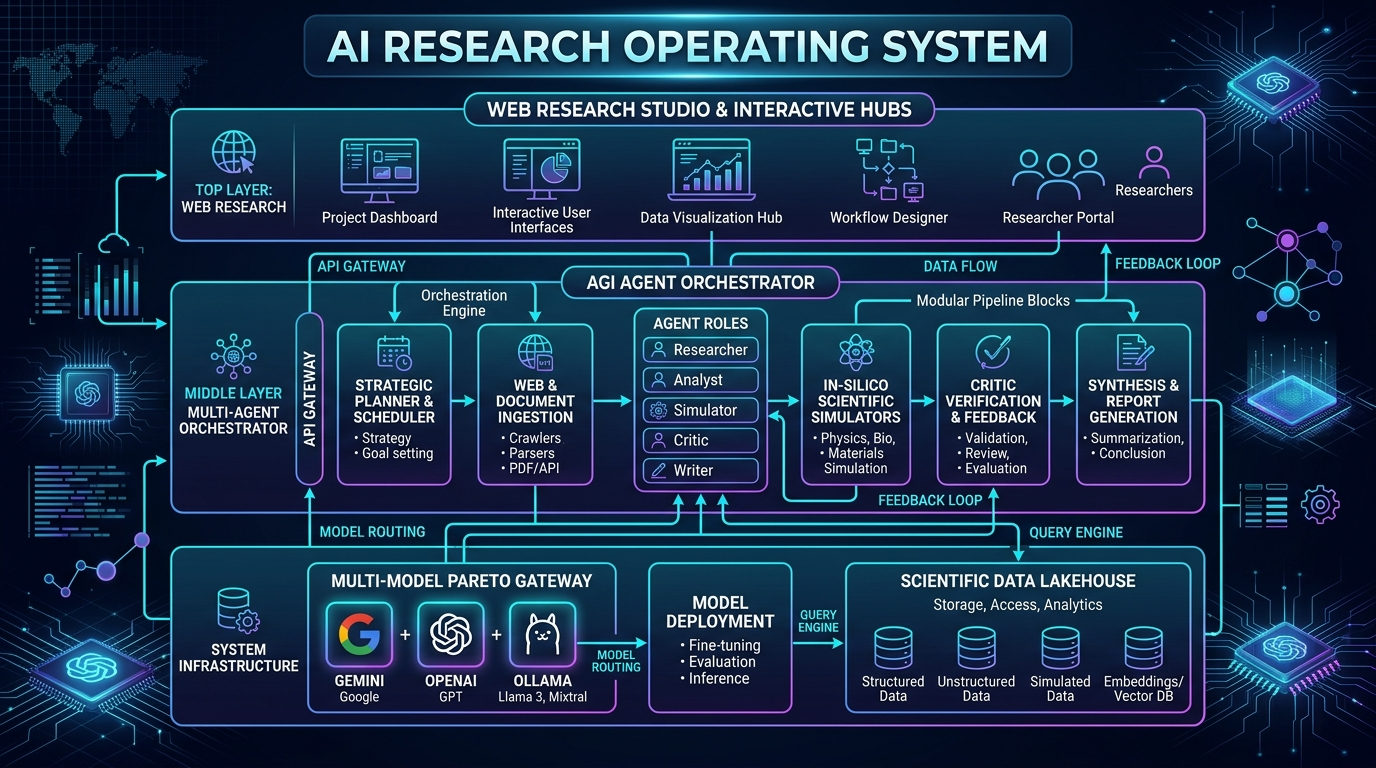
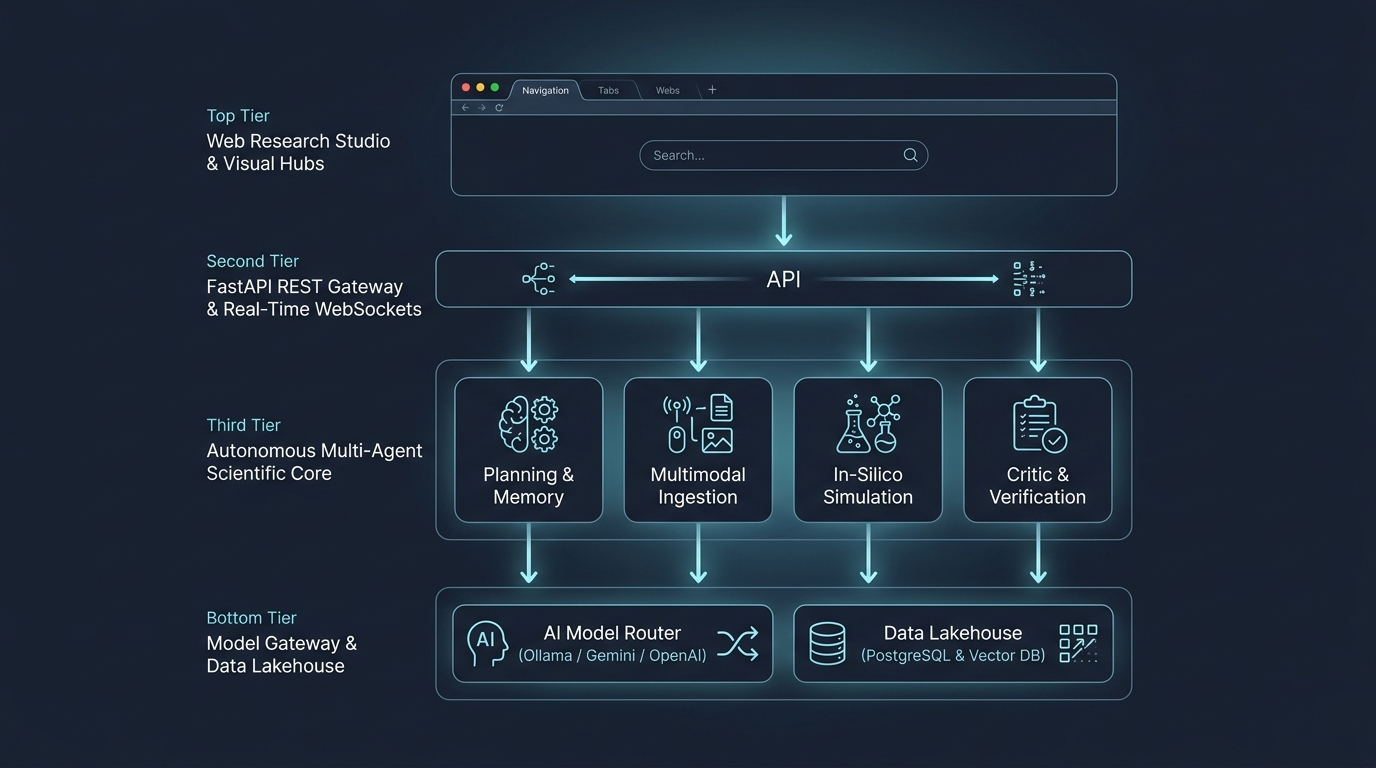
docs(readme): simplify architecture diagram and streamline README for clarity and professional presentation

diff --git a/README.md b/README.md
@@ -10,65 +10,64 @@
 
 ---
 
-## 🌟 What is the AI Research OS?
+## 🌟 Overview
 
-The **Agentic Multimodal Research Platform (AI Research OS v1.1)** is a local-first, enterprise-grade AI operating system designed to conduct autonomous, verifiable, and evidence-grounded scientific investigations.
+The **Agentic Multimodal Research Platform (AI Research OS v1.1)** is a local-first, enterprise-grade operating system designed for autonomous scientific research and computational discovery.
 
-Unlike conventional chatbots that provide conversational approximations, the AI Research OS operates as an **Autonomous Digital Scientist**. It orchestrates multi-agent workflows to decompose complex questions, parse multi-modal experimental datasets, run physical and molecular simulations, verify claims with mathematical rigor, and translate findings into wet-lab robotic instructions and camera-ready academic preprints.
+Rather than acting as a standard text chatbot, the platform serves as an **Autonomous AI Scientist**. It coordinates multi-agent workflows to explore scientific literature, run physical and molecular simulations, verify empirical findings, and translate discoveries into robotic laboratory protocols and academic publications.
 
 ---
 
-## 🔄 The 6-Stage Autonomous Research Lifecycle
+## 🔄 Autonomous Research Lifecycle
 
-The platform transforms raw scientific questions into verified discoveries across an automated closed loop:
+The platform transforms high-level scientific inquiries into verified discoveries through an automated 6-stage closed loop:
 
 <p align="center">
-  <img src="./docs/assets/workflow_lifecycle.jpg" alt="Autonomous Scientific Research Pipeline" width="95%" />
+  <img src="./docs/assets/workflow_lifecycle.jpg" alt="Autonomous Scientific Research Pipeline" width="90%" />
 </p>
 
-1. **Hypothesis Formulation**: Formulates testable, falsifiable scientific hypotheses by analyzing knowledge graphs and research literature.
-2. **Multimodal Ingestion**: Aggregates and parses academic PDFs, tabular clinical data, sequencing files (FASTQ/BAM), and 3D bio-structures (PDB).
-3. **In-Silico Simulation**: Executes deterministic biophysical, kinetic, and molecular simulations (Velocity Verlet MD, AlphaFold3, smFRET, QSAR).
-4. **Adversarial Peer Review**: Deploys dialectical debate teams (`Proposer` vs `Opposer`) to challenge findings and eliminate hallucinations.
-5. **Lab Robotics Translation**: Compiles validated discoveries directly into executable robotic automation scripts (Opentrons v2, PyLabRobot).
-6. **Academic Publication**: Synthesizes camera-ready LaTeX preprints (Nature, IEEE, ACM formats), PRISMA reviews, and NIH grant proposals.
+* **1. Hypothesis Generation**: Analyzes cross-domain knowledge graphs and literature to formulate testable hypotheses.
+* **2. Multimodal Ingestion**: Parses diverse data sources including academic papers, clinical tables, audio/video, and 3D molecular structures.
+* **3. In-Silico Simulation**: Runs deterministic biophysical, kinetic, and computational models (AlphaFold3, Molecular Dynamics, QSAR).
+* **4. Adversarial Peer Review**: Deploys dialectical review agents (`Proposer` vs `Opposer`) to stress-test claims and eliminate hallucinations.
+* **5. Lab Robotics Protocol**: Translates verified discoveries into executable automation scripts for liquid handlers (Opentrons v2, PyLabRobot).
+* **6. Academic Publication**: Synthesizes publication-ready LaTeX preprints, PRISMA meta-analyses, and grant proposals.
 
 ---
 
 ## 🏗 System Architecture
 
-The platform is engineered around a modular, multi-tier microservices and package architecture:
+Built on a modular, multi-tier microservices architecture designed for high scalability and local privacy:
 
 <p align="center">
-  <img src="./docs/assets/architecture_diagram.jpg" alt="AI Research Operating System Architecture" width="95%" />
+  <img src="./docs/assets/architecture_diagram.jpg" alt="Clean System Architecture" width="90%" />
 </p>
 
-### Architecture Layers:
-* **Web Research Studio & Hubs**: Modern React 18 frontend with 82 dedicated research consoles, visual DAG graph viewers, and collaborative spatial canvases.
-* **API Gateway & Routing**: High-performance FastAPI ASGI backend with 82 domain-specific REST routers and low-latency WebSocket live streaming.
-* **Multi-Agent Orchestration**: LangGraph-inspired directed acyclic graph (DAG) execution engine coordinating Planner, Ingestion, In-Silico Simulators, and Critic verification loops.
-* **Multi-Model Pareto Gateway**: Dynamic model router balancing speed, cost, and reasoning accuracy across Local Ollama, Google Gemini, Anthropic, and OpenAI.
-* **Scientific Data Lakehouse**: Persistent storage powered by PostgreSQL 16, ChromaDB vector indices, DuckDB SQL analytics, and Parquet/Iceberg object vaults.
+### Key Architectural Layers:
+1. **Web Research Studio & Visual Hubs**: React 18 frontend featuring 82 specialized consoles, interactive canvas workspaces, and real-time DAG execution tracking.
+2. **FastAPI REST Gateway & WebSockets**: High-throughput ASGI backend exposing 82 domain routers with real-time bidirectional streaming.
+3. **Autonomous Multi-Agent Scientific Core**: LangGraph-driven orchestration engine coordinating planning, data extraction, computational simulation, and critique.
+4. **Model Gateway & Data Lakehouse**: Pareto-optimal model router (Ollama, Gemini, OpenAI, Anthropic) paired with PostgreSQL 16, ChromaDB vector search, and Parquet/Iceberg storage.
 
 ---
 
-## ⚡ Key Capabilities at a Glance
+## ⚡ Core Capabilities by Domain
 
-| Scientific Domain | Core Capabilities & Engines |
+| Domain | Key Capabilities |
 |---|---|
-| 🧠 **Autonomous Cognition & Meta-Science** | Recursive Deep Research, Adversarial Multi-Agent Debates, PRISMA 2020 Meta-Analysis, Reproducibility AST Sandboxes, Double-Blind Peer Review, and NIH Grant Proposals. |
-| 🧬 **Genomics & Synthetic Biology** | CRISPR-Cas9/Cas12a guide RNA design with CFD off-target scoring, scRNA-seq differential expression, ATAC-seq peak calling, DNA logic gates (SBOL3), and ACMG 2015 variant classification. |
-| 🧪 **Structural Biology & Chemistry** | AlphaFold3/ESMFold 3D visualizers, Velocity Verlet molecular dynamics, De Novo molecule VAE generation, billion-molecule vHTS docking grid, smFRET kinetics, and QSAR toxicity screening. |
-| 🏥 **Translational Medicine & Clinical AI** | CAR-T cell therapy cytotoxicity & CRS forecasters, personalized cancer vaccines (neoepitopes), ctDNA liquid biopsy fragmentomics, clinical site selection, and FAERS safety mining. |
-| 🔬 **Laboratory Robotics & Imaging** | Automated Opentrons v2 / PyLabRobot protocol generation, 21 CFR Part 11 Electronic Lab Notebooks, Flow Cytometry gating trees, and Cryo-ET subtomogram averaging. |
-| 🏢 **Enterprise Infrastructure & Security** | AES-256-GCM KMS envelope encryption, Merkle audit trails, distributed task queue workers, multi-tenant RBAC, and developer Python/TypeScript SDKs. |
+| 🧠 **Cognition & Meta-Science** | Recursive Deep Research, Multi-Agent Debates, PRISMA Meta-Analysis, Computational Reproducibility, and Peer Review. |
+| 🧬 **Genomics & Synthetic Biology** | CRISPR Guide RNA Design, Single-Cell scRNA-seq, ATAC-seq Peak Calling, DNA Logic Circuits (SBOL3), and ACMG Variant Scoring. |
+| 🧪 **Structural Biology & Chemistry** | AlphaFold3 3D Visualization, Velocity Verlet Molecular Dynamics, Generative Drug Design, smFRET Kinetics, and QSAR Toxicity. |
+| 🏥 **Translational & Clinical AI** | CAR-T Cell Therapy Simulation, Personalized Cancer Vaccines, Liquid Biopsy ctDNA MRD, and Pharmacovigilance Signal Mining. |
+| 🔬 **Robotics & Laboratory Tools** | Opentrons Protocol Generation, 21 CFR Part 11 Electronic Lab Notebooks, Flow Cytometry Gating, and Cryo-ET Tomography. |
+| 🏢 **Enterprise Infrastructure** | AES-256 KMS Envelope Encryption, Merkle Audit Trails, Distributed Task Queue, Multi-Tenant RBAC, and Async SDKs. |
 
 ---
 
-## 📊 Platform Evolution Status (All 82 Phases Complete)
+## 📊 Complete 82-Phase Engineering Matrix
 
-<details open>
-<summary><b>Click to expand the Complete 82-Phase Engineering Matrix (100% Passing CI)</b></summary>
+<details>
+<summary><b>Click to expand full 82-Phase Status Tracker (540+ Tests Passing, 100% CI)</b></summary>
 
 ```
 Phase 1: Foundation                  [████████████████████] 100%
@@ -161,51 +160,51 @@ ALL 82 PHASES (GENERATIONS 1 - 52) COMPLETED & FULLY ACTIVE (540+ TESTS PASSING)
 
 ---
 
-## 💻 Quick Start Guide
+## 💻 Quick Start
 
-### 1. Clone & Configure Environment
+### 1. Setup Environment
 ```bash
 git clone https://github.com/Om-Talaviya/agentic-multimodal-research-platform.git
 cd agentic-multimodal-research-platform
 cp .env.example .env
 ```
 
-### 2. Launch Local Services
+### 2. Start Services with Docker
 ```bash
 docker compose up -d
 ```
-*Starts PostgreSQL 16 (`5432`), ChromaDB Vector Store (`8000`), Redis (`6379`), and Ollama (`11434`).*
+*Launches PostgreSQL 16, ChromaDB Vector Store, Redis, and Ollama.*
 
-### 3. Start Backend Services
+### 3. Launch Backend Server
 ```bash
 cd apps/api
 pip install -e ".[dev]"
 alembic upgrade head
 uvicorn src.main:app --reload --port 8000
 ```
-* Interactive OpenAPI Documentation: `http://localhost:8000/docs`
-* System Health Endpoint: `http://localhost:8000/api/v1/health`
+* API Documentation: `http://localhost:8000/docs`
+* Health Check: `http://localhost:8000/api/v1/health`
 
-### 4. Start Web Application
+### 4. Launch Frontend Web App
 ```bash
 cd apps/web
 npm install
 npm run dev
 ```
-* Web Application Dashboard: `http://localhost:5173`
+* Web Dashboard: `http://localhost:5173`
 
 ---
 
-## 📦 Developer SDK Usage
+## 📦 Developer SDKs
 
-### Python SDK (`packages/sdk-python`)
+### Python SDK
 ```python
 import asyncio
 from ai_research_os import ResearchClient
 
-async def run_simulation():
+async def main():
     async with ResearchClient(base_url="http://localhost:8000", api_key="sk_live_demo") as client:
-        # Launch CAR-T in-silico cytotoxicity simulation
+        # Run in-silico CAR-T simulation
         result = await client.cart.simulate(
             target_antigen="CD19",
             scfv_clone="FMC63",
@@ -213,33 +212,33 @@ async def run_simulation():
         )
         print(f"Predicted Lysis: {result.cytotoxicity_lysis_pct}% | CRS Risk: {result.crs_risk_tier}")
 
-asyncio.run(run_simulation())
+asyncio.run(main())
 ```
 
-### TypeScript SDK (`apps/web/src/sdk`)
+### TypeScript SDK
 ```typescript
 import { ResearchClient } from './sdk/client';
 
 const client = new ResearchClient({ baseUrl: 'http://localhost:8000', apiKey: 'sk_live_demo' });
 
-async function classifyVariant() {
-  const result = await client.variants.classifyACMG({
+async function run() {
+  const variant = await client.variants.classifyACMG({
     gene_symbol: 'BRCA1',
     hgvs_c: 'c.5266dupC',
     alphamissense_score: 0.95
   });
-  console.log(`Variant Classification: ${result.acmg_class} (${result.pathogenicity_score})`);
+  console.log(`Classification: ${variant.acmg_class} (${variant.pathogenicity_score})`);
 }
 ```
 
 ---
 
-## 🔒 Enterprise Security & Compliance
+## 🔒 Enterprise Security & Privacy
 
-* **Air-Gapped & Local-First**: Operates 100% offline with Ollama and self-hosted vector databases without exposing IP or patient data.
-* **SSRF Protection**: Defensive DNS filtering blocks loopback (`127.0.0.1`), private subnets (`10.0.0.0/8`, `172.16.0.0/12`, `192.168.0.0/16`), and AWS/GCP metadata endpoints (`169.254.169.254`).
-* **21 CFR Part 11 Audit Chaining**: Cryptographic SHA-256 Merkle hash chains for tamper-evident data integrity and electronic signatures.
-* **Deterministic Solvers**: All physical and genomic calculations run in sandboxed Python kernels rather than relying on LLM approximations.
+* **100% Air-Gapped / Local-First**: Run entirely on-premise with local Ollama models and private vector stores.
+* **SSRF Guardrails**: Strict DNS inspection blocking loopback, private subnets, and cloud metadata endpoints.
+* **GxP & 21 CFR Part 11**: Cryptographic SHA-256 audit chaining and verified witness electronic signatures.
+* **Deterministic Solvers**: Scientific computations execute in sandboxed Python kernels rather than probabilistic text outputs.
 
 ---
 
